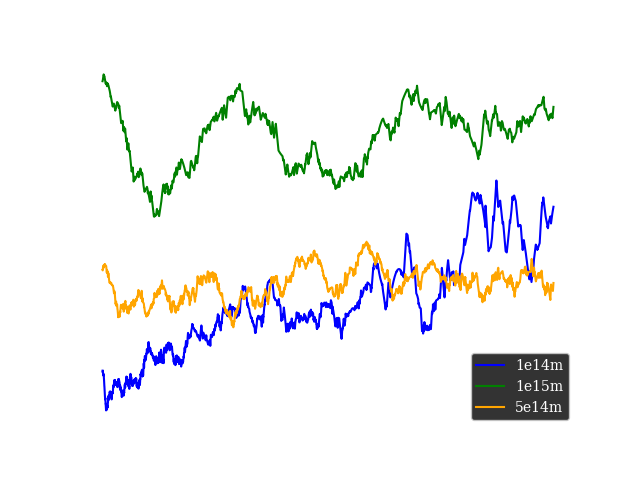
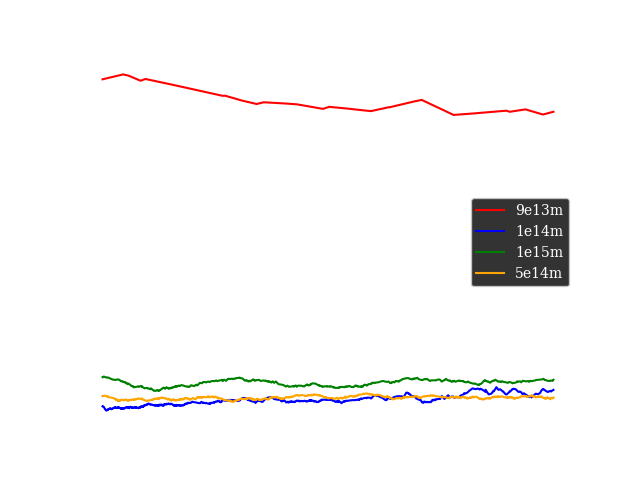
prep for Myear crunch on hamilton

diff --git a/plots/plotMassOverTime.py b/plots/plotMassOverTime.py
@@ -10,13 +10,13 @@ compressFactor = 100
 xUnit = 1000 * 365.25 * 24 * 60 * 60
 effdt = compressFactor * dt / xUnit
 mData1 = np.load(
-    '/Users/garymagnum/Project/data/11-2-21-9e13BabyCrunch/11-2-21-100p-50por100000yr-10d-9e13-mass.npy')
-mData2 = np.load(
-    '/Users/garymagnum/Project/data/12-2-21-2e14BabyCrunch/12-2-21-100p-50por100000yr-10d-2e14-mass.npy')
-mData3 = np.load(
-    '/Users/garymagnum/Project/data/13-2-21-1e15BabyCrunch/13-2-21-100p-50por100000yr-10d-1e15-mass.npy')
-mData4 = np.load(
-    '/Users/garymagnum/Project/data/13-2-21-5e14BabyCrunch/13-2-21-100p-50por100000yr-10d-5e14-mass.npy')
+    '/Users/garymagnum/Project/data/19-2-21-e16Crunch/16-2-21-100p-baby-mass.npy')
+# mData2 = np.load(
+#     '/Users/garymagnum/Project/data/12-2-21-2e14BabyCrunch/12-2-21-100p-50por100000yr-10d-2e14-mass.npy')
+# mData3 = np.load(
+#     '/Users/garymagnum/Project/data/13-2-21-1e15BabyCrunch/13-2-21-100p-50por100000yr-10d-1e15-mass.npy')
+# mData4 = np.load(
+#     '/Users/garymagnum/Project/data/13-2-21-5e14BabyCrunch/13-2-21-100p-50por100000yr-10d-5e14-mass.npy')
 
 
 plt.rc('font', family='serif', weight='bold', size='18')
@@ -25,26 +25,20 @@ plt.style.use('dark_background')
 fig, axis = plt.subplots(figsize=(8, 4))
 
 
-totalMassOverTime1 = np.sum(mData1, 1)
-totalMassOverTime2 = np.sum(mData2, 1)
-totalMassOverTime3 = np.sum(mData3, 1)
-totalMassOverTime4 = np.sum(mData4, 1)
+def massPlot(mData, color, label):
+    totalMassOverTime = np.sum(mData, 1)
+    time = np.array(list(range(len(totalMassOverTime)))) * effdt
 
-time = np.array(list(range(len(totalMassOverTime1)))) * effdt
-time3 = np.array(list(range(len(totalMassOverTime3)))) * effdt
-time4 = np.array(list(range(len(totalMassOverTime4)))) * effdt
+    M0 = totalMassOverTime[0]
 
-M0 = totalMassOverTime1[0]
+    normalisedMassOverTime = totalMassOverTime / M0
 
-normalisedMassOverTime1 = totalMassOverTime1 / M0
-normalisedMassOverTime2 = totalMassOverTime2 / M0
-normalisedMassOverTime3 = totalMassOverTime3 / M0
-normalisedMassOverTime4 = totalMassOverTime4 / M0
+    axis.plot(time, normalisedMassOverTime, color=color, label=label)
+
+    pass
 
 
-axis.plot(time, normalisedMassOverTime2, color='deepskyblue', label='1e14m')
-axis.plot(time4, normalisedMassOverTime4, color='orange', label='5e14m')
-axis.plot(time3, normalisedMassOverTime3, color='lime', label='1e15m')
+massPlot(mData1, 'deepskyblue', 'collision')
 
 
 axis.set_xlabel('time/kyr')

diff --git a/initialConditionGenerator.py b/initialConditionGenerator.py
@@ -3,26 +3,31 @@ from time import time
 from tqdm import tqdm
 
 path = '/Users/garymagnum/Project/hamData/'
+path2 = '/Users/garymagnum/Project/data/16-2-21-CollisionCrunch/'
 
 babyMass = np.load(
-    '/Users/garymagnum/Project/hamData/16-2-21-100p-baby-mass.npy')
+    path2 + 'baby/16-2-21-100p-baby-mass.npy')
 babyPosition = np.load(
-    '/Users/garymagnum/Project/hamData/16-2-21-100p-baby-position.npy')
+    path2 + 'baby/16-2-21-100p-baby-position.npy')
 babyVelocity = np.load(
-    '/Users/garymagnum/Project/hamData/16-2-21-100p-baby-velocity.npy')
+    path2 + 'baby/16-2-21-100p-baby-velocity.npy')
 
 daddyMass = np.load(
-    '/Users/garymagnum/Project/hamData/16-2-21-100p-daddy-mass.npy')
+    path2 + 'daddy/16-2-21-100p-daddy-mass.npy')
 daddyPosition = np.load(
-    '/Users/garymagnum/Project/hamData/16-2-21-100p-daddy-position.npy')
+    path2 + 'daddy/16-2-21-100p-daddy-position.npy')
 daddyVelocity = np.load(
-    '/Users/garymagnum/Project/hamData/16-2-21-100p-daddy-velocity.npy')
+    path2 + 'daddy/16-2-21-100p-daddy-velocity.npy')
 
-t = 60000 * 365.25 * 24 * 60 * 60
+t = 50000 * 365.25 * 24 * 60 * 60
 M0 = 2e32
 G = 6.67e-11
+radiusOfCluster = 3e16
 
-R = ((t**2) * 16 * M0 * G / (np.pi**2))**(1 / 3)
+# R = ((t**2) * 16 * M0 * G / (np.pi**2))**(1 / 3)
+V = 3000
+vFinal = V + np.sqrt(2 * G * M0 * 1 / radiusOfCluster)
+R = vFinal * t
 
 
 def perturber(array, pertubation):
@@ -41,8 +46,8 @@ def App():
     tempVelocity = np.concatenate((babyVelocity, daddyVelocity))
     tempPosition = np.concatenate((babyPosition, daddyPosition))
 
-    newPosition = perturber(tempPosition, np.array([R / 2, 0, 0]))
-    newVelocity = perturber(tempVelocity, np.array([-100, 0, 0]))
+    newPosition = perturber(tempPosition, np.array([R, 0, 0]))
+    newVelocity = perturber(tempVelocity, np.array([-V, 0, 0]))
 
     np.save(path + '16-2-21-200p-Myr-mass', np.array([newMass]))
     np.save(path + '16-2-21-200p-Myr-position', np.array([newPosition]))

diff --git a/app.py b/app.py
@@ -9,15 +9,16 @@ from tqdm import tqdm
 # initial data
 t = 1000 * 370 * 24 * 60 * 60
 dt = 10 * 24 * 60 * 60
-N = 200
+N = 100
 M0 = 2e32
 colRad = 1e7
 minParticles = 50
-pathOfFolder = '/Users/garymagnum/Project/data/16-2-21-CollisionCrunch/'
+pathOfFolder = '/Users/garymagnum/Project/data/19-2-21-e16Crunch/'
 compressFactor = 100
 
-year1000 = 370
-finalLength = 100 * year1000
+iterationLen = 370
+iterations = 200
+finalLength = iterations * iterationLen
 
 
 def thinData(data, compress):
@@ -47,15 +48,17 @@ def stitchDataTogether(data, addData):
 def App():
 
     oldP = np.load(
-        pathOfFolder + '16-2-21-200p-Myr-position.npy')
+        pathOfFolder + '16-2-21-100p-baby-position.npy')
     oldV = np.load(
-        pathOfFolder + '16-2-21-200p-Myr-velocity.npy')
+        pathOfFolder + '16-2-21-100p-baby-velocity.npy')
     oldM = np.load(
-        pathOfFolder + '16-2-21-200p-Myr-mass.npy')
+        pathOfFolder + '16-2-21-100p-baby-mass.npy')
 
     initialM = oldM[-1]
     initialP = oldP[-1]
     initialV = oldV[-1]
+
+    print(np.shape(initialM), np.shape(initialP), np.shape(initialV))
 
     pData, vData, mData = work(
         initialP, initialV, initialM, t, dt, colRad, minParticles)
@@ -70,11 +73,11 @@ def App():
 
     print('saving...')
 
-    np.save(pathOfFolder + '16-2-21-200p-Myr-position',
+    np.save(pathOfFolder + '16-2-21-100p-baby-position',
             newP)
-    np.save(pathOfFolder + '16-2-21-200p-Myr-velocity',
+    np.save(pathOfFolder + '16-2-21-100p-baby-velocity',
             newV)
-    np.save(pathOfFolder + '16-2-21-200p-Myr-mass',
+    np.save(pathOfFolder + '16-2-21-100p-baby-mass',
             newM)
 
     print('saved successfully')
@@ -85,8 +88,8 @@ def App():
 length = 0
 
 
-pbar = tqdm(total=finalLength)
+pbar = tqdm(total=iterations)
 
 while length <= finalLength:
     length = App()
-    pbar.update(length)
+    pbar.update(1)

diff --git a/appHam.py b/appHam.py
@@ -13,12 +13,14 @@ N = 200
 M0 = 2e32
 colRad = 1e7
 minParticles = 50
-pathOfFolder = '/ddn/data/xnlg39/'
+
+pathOfInit = 'hamData/'
+pathOfFolder = '/ddn/data/xnlg39/finalData/'
 
 compressFactor = 100
 
 year1000 = 370
-finalLength = 100 * year1000
+finalLength = 1000 * year1000
 
 
 def thinData(data, compress):
@@ -81,11 +83,50 @@ def App():
     return len(newM)
 
 
+print('initializing app')
+
 length = 0
 
+oldP = np.load(
+    pathOfInit + '16-2-21-200p-Myr-position.npy')
+oldV = np.load(
+    pathOfInit + '16-2-21-200p-Myr-velocity.npy')
+oldM = np.load(
+    pathOfInit + '16-2-21-200p-Myr-mass.npy')
+
+initialM = oldM[-1]
+initialP = oldP[-1]
+initialV = oldV[-1]
+
+pData, vData, mData = work(
+    initialP, initialV, initialM, t, dt, colRad, minParticles)
+
+thinP = thinData(pData, compressFactor)
+thinV = thinData(vData, compressFactor)
+thinM = thinData(mData, compressFactor)
+
+newP = thinP
+newV = thinV
+newM = thinM
+
+np.save(pathOfFolder + '16-2-21-200p-Myr-position',
+        newP)
+np.save(pathOfFolder + '16-2-21-200p-Myr-velocity',
+        newV)
+np.save(pathOfFolder + '16-2-21-200p-Myr-mass',
+        newM)
+
+
+print('CREATED')
 
 pbar = tqdm(total=finalLength)
+oldLength = 0
 
 while length <= finalLength:
+
     length = App()
-    pbar.update(length)
+
+    difference = length - oldLength
+    oldLength = length
+
+    pbar.update(difference)

diff --git a/plots/halfMassRadiusOverTime.py b/plots/halfMassRadiusOverTime.py
@@ -76,9 +76,9 @@ def halfMassRadiusOverTime(mData, pData, color, label):
 
 
 mData1 = np.load(
-    '/Users/garymagnum/Project/data/11-2-21-9e13BabyCrunch/11-2-21-100p-50por100000yr-10d-9e13-mass.npy')
+    '/Users/garymagnum/Project/data/19-2-21-e16Crunch/16-2-21-100p-baby-mass.npy')
 pData1 = np.load(
-    '/Users/garymagnum/Project/data/11-2-21-9e13BabyCrunch/11-2-21-100p-50por100000yr-10d-9e13-position.npy')
+    '/Users/garymagnum/Project/data/19-2-21-e16Crunch/16-2-21-100p-baby-position.npy')
 
 mData2 = np.load(
     '/Users/garymagnum/Project/data/12-2-21-2e14BabyCrunch/12-2-21-100p-50por100000yr-10d-2e14-mass.npy'
@@ -95,7 +95,7 @@ mData4 = np.load(
 pData4 = np.load(
     '/Users/garymagnum/Project/data/13-2-21-5e14BabyCrunch/13-2-21-100p-50por100000yr-10d-5e14-position.npy')
 
-# halfMassRadiusOverTime(mData1, pData1, 'red', '9e13m')
+halfMassRadiusOverTime(mData1, pData1, 'red', '9e13m')
 halfMassRadiusOverTime(mData2, pData2, 'blue', '1e14m')
 halfMassRadiusOverTime(mData3, pData3, 'green', '1e15m')
 halfMassRadiusOverTime(mData4, pData4, 'orange', '5e14m')

diff --git a/plummerModelStart.py b/plummerModelStart.py
@@ -3,17 +3,17 @@ from plummerModel import plummerModel
 
 N = 100
 M0 = 2e32
-plummerRadius = 1e15
+plummerRadius = 1e16
 
 initialV, initialP, initialM = plummerModel(N, M0, plummerRadius)
 
-pathOfFolder = '/Users/garymagnum/Project/hamData/'
+pathOfFolder = '/Users/garymagnum/Project/data/19-2-21-e16Crunch/'
 
 np.save(pathOfFolder + '16-2-21-100p-baby-position',
-        initialP)
+        np.array([initialP]))
 np.save(pathOfFolder + '16-2-21-100p-baby-velocity',
-        initialV)
+        np.array([initialV]))
 np.save(pathOfFolder + '16-2-21-100p-baby-mass',
-        initialM)
+        np.array([initialM]))
 
 print('finished')

diff --git a/numbaWork.py b/numbaWork.py
@@ -247,7 +247,7 @@ def work(P0, V0, M0, t, dt, colRad, minParticles):
     pHalf = P
     # print('years: ', t / (60 * 60 * 24 * 365.25))
     # print('iterations: ', iterations)
-    print('number of particles: ', np.sum(M) / 2e30)
+    # print('number of particles: ', np.sum(M) / 2e30)
 
     rawP = np.full((iterations, len(M), 3), 0.0)
     rawV = np.full((iterations, len(M), 3), 0.0)

diff --git a/plots/3dPositionPlot.py b/plots/3dPositionPlot.py
@@ -7,7 +7,7 @@ from tqdm import tqdm
 # [iteration][particle][position]
 pRaw = 0
 plummerRadius = 9e13
-path = '/Users/garymagnum/Project/data/16-2-21-CollisionCrunch/16-2-21-200p-Myr-position.npy'
+path = '/Users/garymagnum/Project/hamData/16-2-21-200p-Myr-position.npy'
 pData = np.load(path, allow_pickle=True)[0]
 print(np.shape(pData))
 R = 5e14

diff --git a/plots/3dAnimationPlot.py b/plots/3dAnimationPlot.py
@@ -6,7 +6,7 @@ from tqdm import tqdm
 
 R = 1e14
 P = np.load(
-    '/Users/garymagnum/Project/data/16-2-21-CollisionCrunch/16-2-21-200p-Myr-position.npy')
+    '/Users/garymagnum/Project/data/18-2-21-HamTestCrunch/16-2-21-200p-Myr-position.npy')
 E = 0
 M = 100
 t = 100000 * 370 * 24 * 60 * 60
